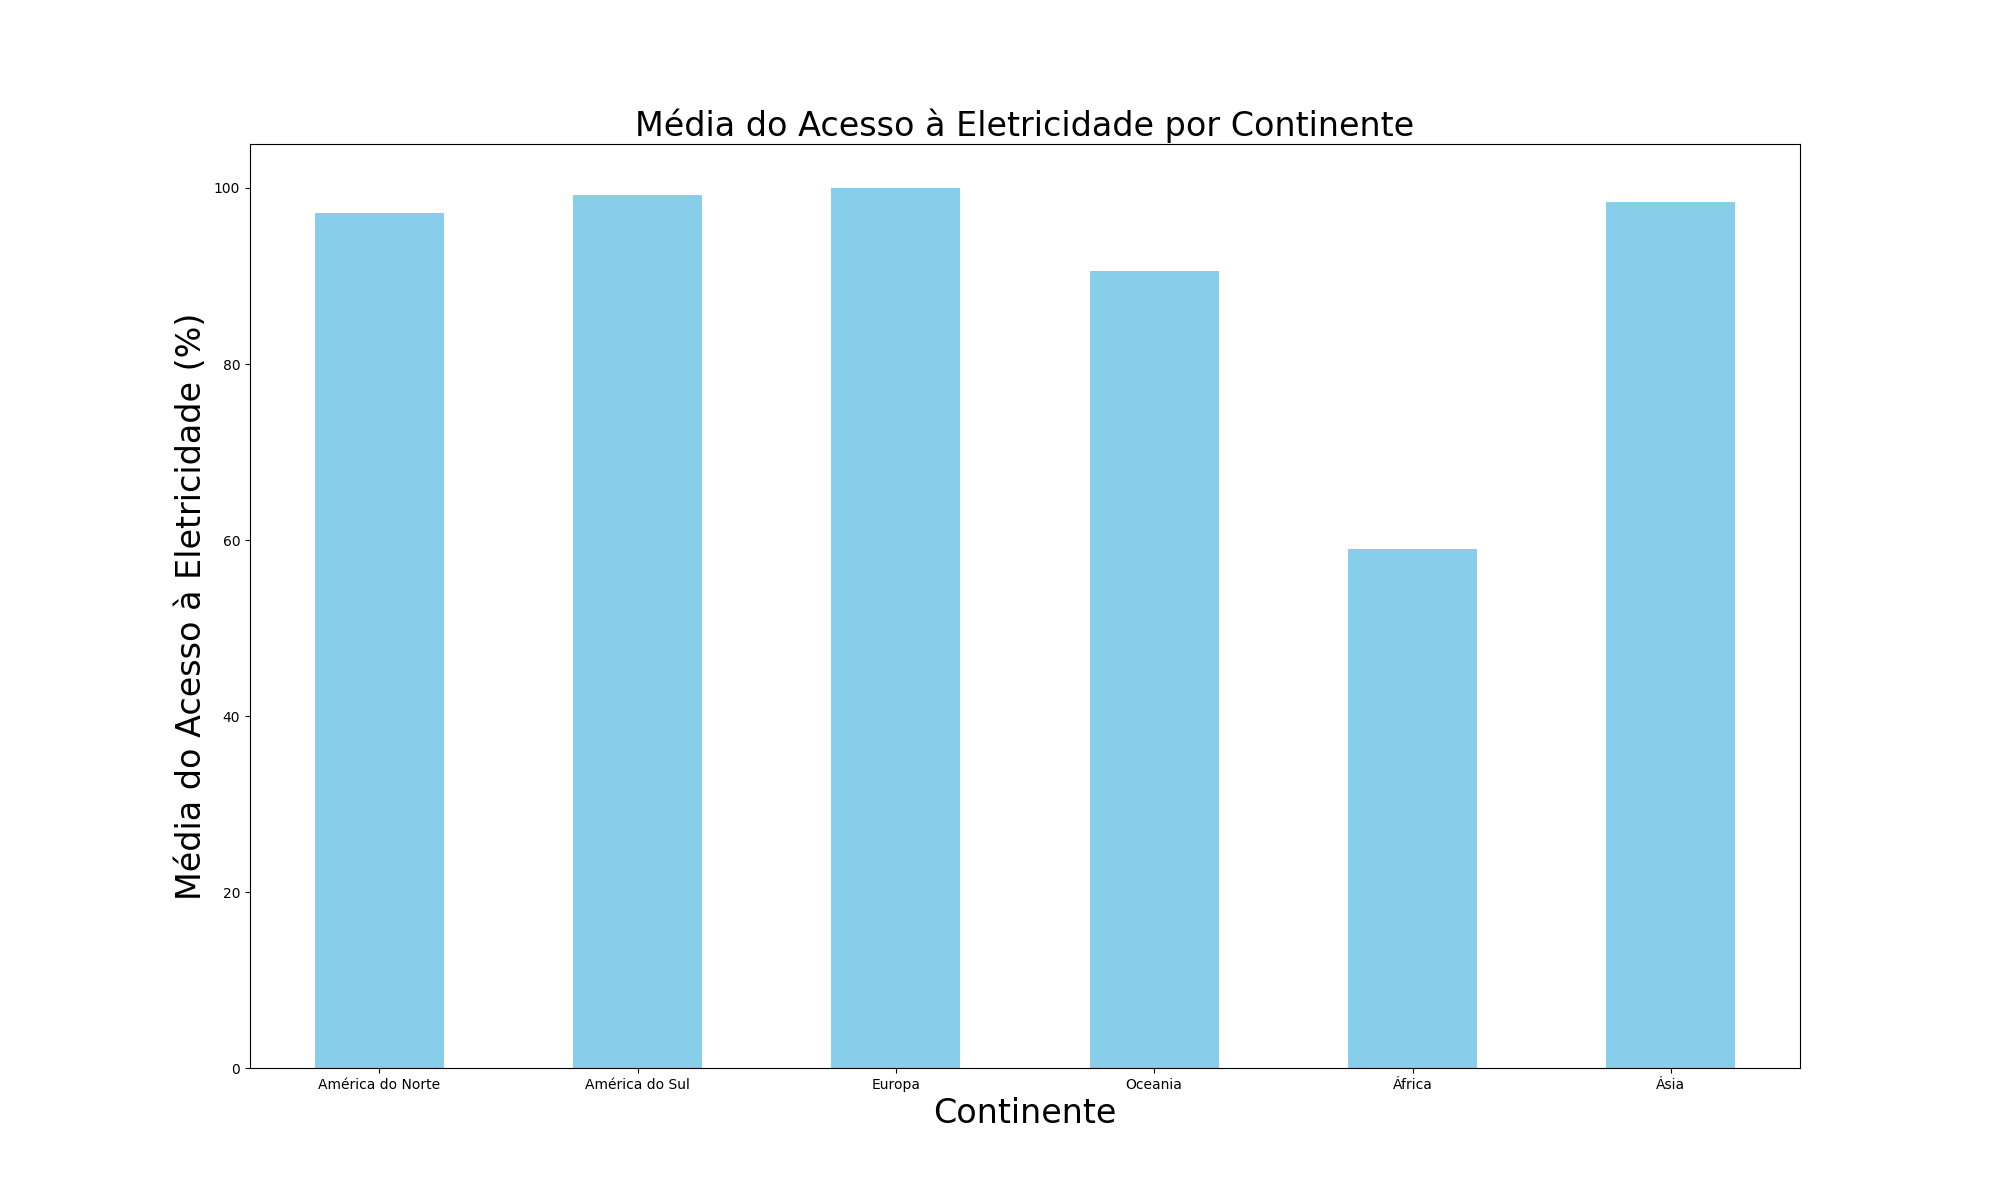
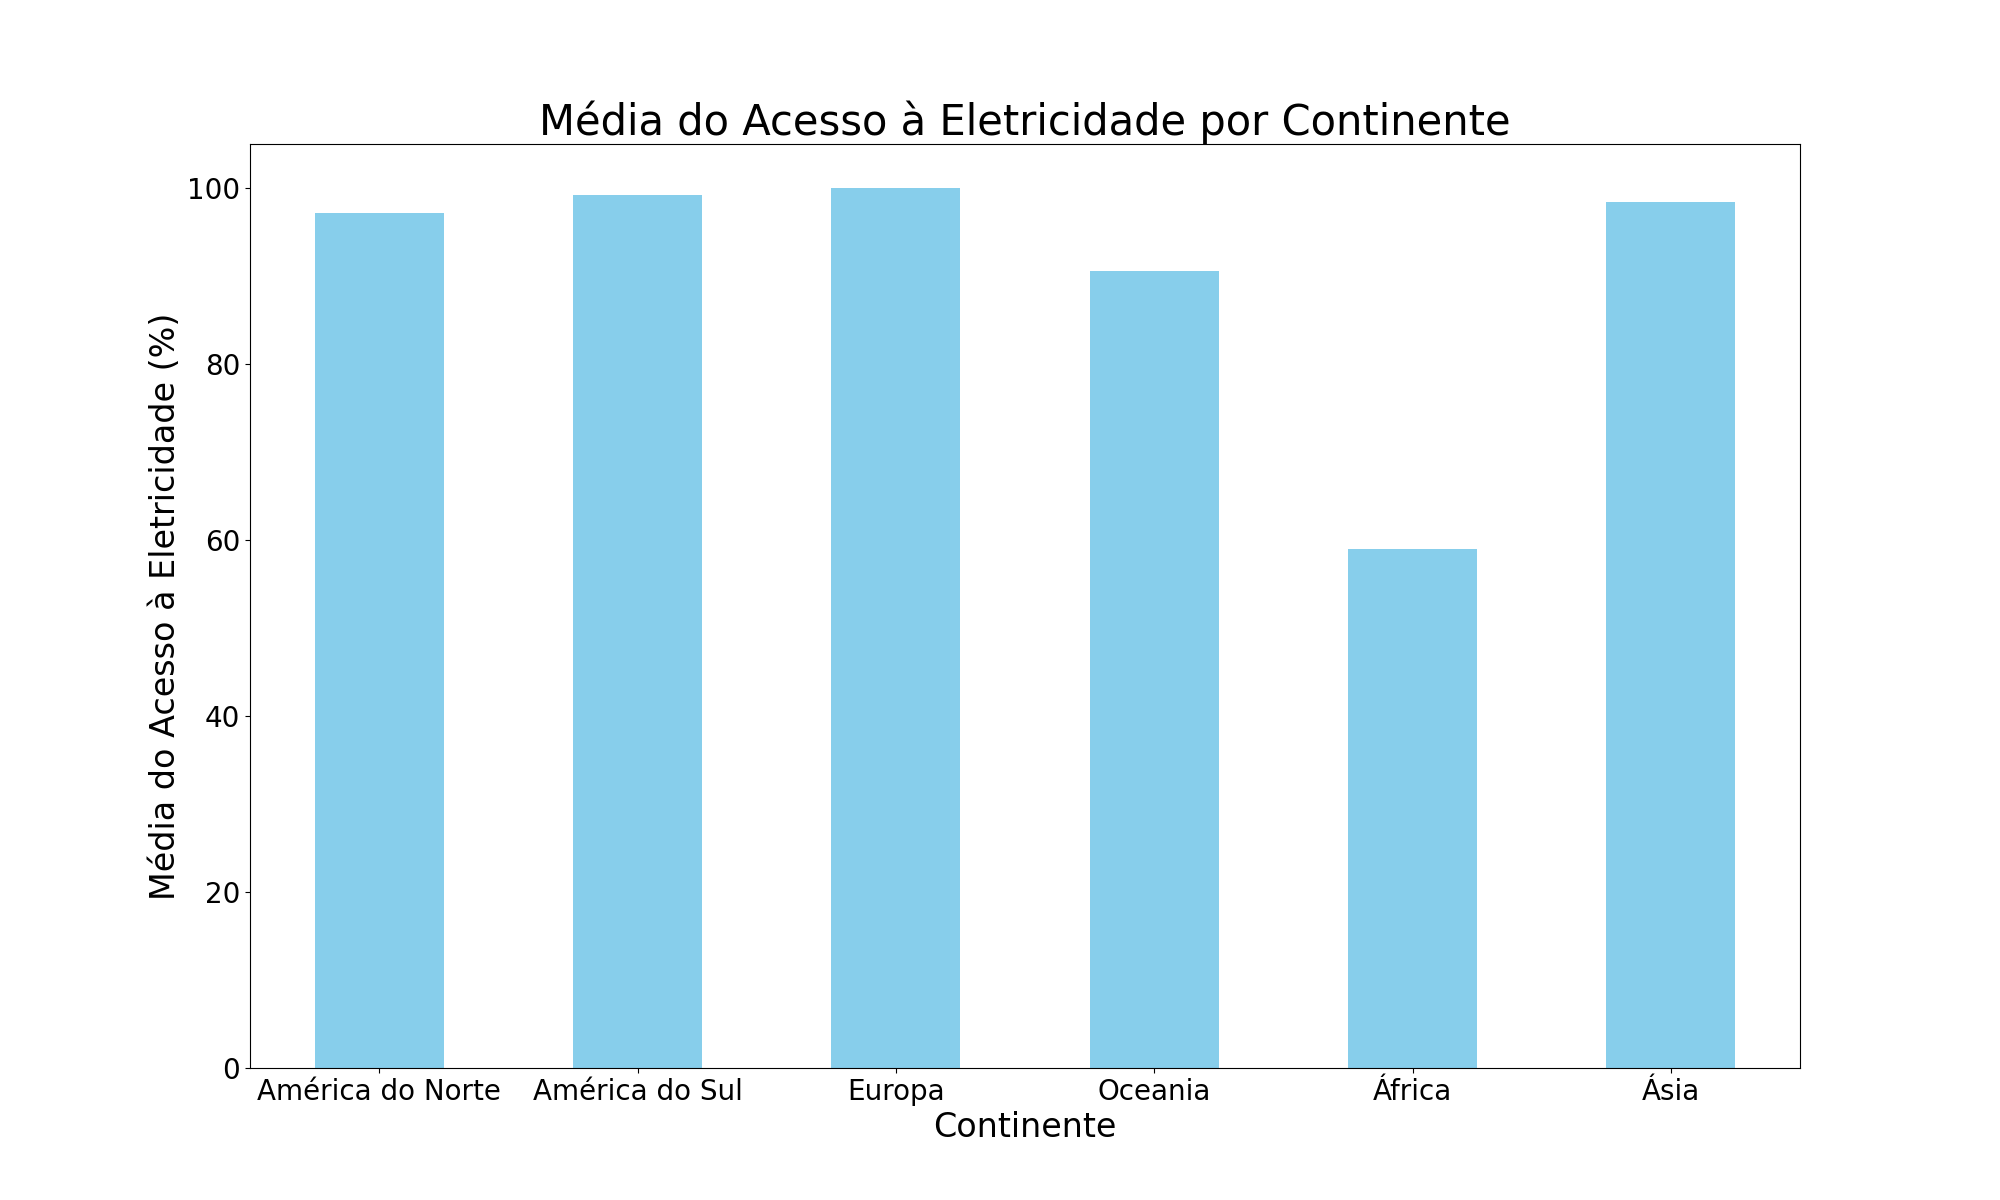
atualização nos gráficos

diff --git a/graphics/images.py b/graphics/images.py
@@ -38,53 +38,68 @@ os.makedirs(output_dir, exist_ok=True)
 # 1. Pie chart: % of countries by continent
 continent_counts = df['continent'].value_counts()
 plt.figure(figsize=(16, 16))
-plt.pie(continent_counts, labels=continent_counts.index, autopct='%1.1f%%', startangle=140)
-plt.title('Porcentagem de Países por Continente', fontsize=24)
+plt.pie(continent_counts, labels=continent_counts.index, autopct='%1.1f%%', startangle=140, textprops={'fontsize': 24})
+plt.title('Porcentagem de Países por Continente', fontsize=30)
 plt.savefig(os.path.join(output_dir, 'paises_por_continente.png'))
 plt.close()
 # 2. Bar chart: Average electricity access by continent
 avg_electricity_access = df.groupby('continent')['electricity_access'].mean()
 plt.figure(figsize=(20, 12))
 avg_electricity_access.plot(kind='bar', color='skyblue')
-plt.title('Média do Acesso à Eletricidade por Continente', fontsize=24)
+plt.title('Média do Acesso à Eletricidade por Continente', fontsize=30)
 plt.xlabel('Continente', fontsize=24)
 plt.ylabel('Média do Acesso à Eletricidade (%)', fontsize=24)
-plt.xticks(rotation=0)
+plt.xticks(rotation=0, fontsize=20)
+plt.yticks(fontsize=20)
 plt.savefig(os.path.join(output_dir, 'media_acesso_eletricidade_por_continente.png'))
 plt.close()
 # 3. Bar chart: Average PIB by continent
-avg_gdp = df.groupby('continent')['gdp'].mean()
+avg_gdp = df.groupby('continent')['gdp'].mean() * 1_000_000
 plt.figure(figsize=(20, 12))
 avg_gdp.plot(kind='bar', color='salmon')
-plt.title('Média do PIB por Continente', fontsize=24)
+plt.title('Média do PIB por Continente', fontsize=30)
 plt.xlabel('Continente', fontsize=24)
 plt.ylabel('Média do PIB', fontsize=24)
-plt.xticks(rotation=0)
+plt.xticks(rotation=0, fontsize=20)
+plt.yticks(fontsize=20)
 
 ax = plt.gca()
-ax.yaxis.set_major_formatter(mticker.FuncFormatter(lambda x, pos: f'${int(round(x)):,}'))
+def gdp_formatter(x, pos):
+  if x >= 1e12:
+    return f'${x/1e12:.1f}T'
+  elif x >= 1e9:
+    return f'${x/1e9:.1f}B'
+  elif x >= 1e6:
+    return f'${x/1e6:.1f}M'
+  else:
+    return f'${int(round(x)):,}'
+ax.yaxis.set_major_formatter(mticker.FuncFormatter(gdp_formatter))
 
 plt.savefig(os.path.join(output_dir, 'media_gdp_por_continente.png'))
 plt.close()
 # 4. Scatter plot: Relationship between electricity access and PIB by country
 plt.figure(figsize=(20, 12))
-plt.scatter(df['gdp'], df['electricity_access'], alpha=0.7, color='purple')
-plt.title('Relação entre Acesso à Eletricidade e PIB por País', fontsize=24)
+gdp_million = df['gdp'] * 1_000_000
+plt.scatter(gdp_million, df['electricity_access'], alpha=0.7, color='purple')
+plt.title('Relação entre Acesso à Eletricidade e PIB por País', fontsize=30)
 plt.xlabel('PIB', fontsize=24)
 plt.ylabel('Electricity Access (%)', fontsize=24)
+plt.xticks(fontsize=20)
+plt.yticks(fontsize=20)
 plt.xscale('log')
 
 ax = plt.gca()
 ax.xaxis.set_major_locator(mticker.LogLocator(base=10.0, numticks=12, subs=(1,)))
-def fmt(x, pos):
-    try:
-        if x >= 1:
-            return f'${int(round(x)):,}'
-        else:
-            return f'${x:.2f}'
-    except Exception:
-        return str(x)
-ax.xaxis.set_major_formatter(mticker.FuncFormatter(fmt))
+def gdp_formatter(x, pos):
+  if x >= 1e12:
+    return f'${x/1e12:.1f}T'
+  elif x >= 1e9:
+    return f'${x/1e9:.1f}B'
+  elif x >= 1e6:
+    return f'${x/1e6:.1f}M'
+  else:
+    return f'${int(round(x)):,}'
+ax.xaxis.set_major_formatter(mticker.FuncFormatter(gdp_formatter))
 
 plt.grid(True, which="both", ls="--", linewidth=0.5)
 plt.savefig(os.path.join(output_dir, 'relacao_acesso_eletricidade_pib.png'))
@@ -95,8 +110,8 @@ below_90 = df[df['electricity_access'] <= 90].shape[0]
 labels = ['Acima de 90%', 'Abaixo ou igual a 90%']
 sizes = [above_90, below_90]
 plt.figure(figsize=(16, 16))
-plt.pie(sizes, labels=labels, autopct='%1.1f%%', startangle=140, colors=['lightgreen', 'lightcoral'])
-plt.title('Porcentagem de Países com Acesso à Eletricidade Acima e Abaixo de 90%', fontsize=24)
+plt.pie(sizes, labels=labels, autopct='%1.1f%%', startangle=140, colors=['lightgreen', 'lightcoral'], textprops={'fontsize': 24})
+plt.title('Porcentagem de Países com Acesso\nà Eletricidade Acima e Abaixo de 90%', fontsize=30)
 plt.savefig(os.path.join(output_dir, 'acesso_eletricidade_acima_abaixo_90.png'))
 plt.close()
 # 6. Bar chart: Max and Min electricity access by continent
@@ -104,11 +119,12 @@ max_access = df.groupby('continent')['electricity_access'].max()
 min_access = df.groupby('continent')['electricity_access'].min()
 access_df = pd.DataFrame({'Maior Acesso (%)': max_access, 'Menor Acesso (%)': min_access})
 access_df.plot(kind='bar', figsize=(20, 12))
-plt.title('Maior e Menor Acesso à Eletricidade por Continente', fontsize=24)
+plt.title('Maior e Menor Acesso à Eletricidade por Continente', fontsize=30)
 plt.xlabel('Continente', fontsize=24)
 plt.ylabel('Acesso à Eletricidade (%)', fontsize=24)
-plt.xticks(rotation=0)
-plt.legend(loc='lower right')
+plt.xticks(rotation=0, fontsize=20)
+plt.yticks(fontsize=20)
+plt.legend(loc='lower right', fontsize=16)
 plt.savefig(os.path.join(output_dir, 'maior_menor_acesso_eletricidade_por_continente.png'))
 plt.close()
 
